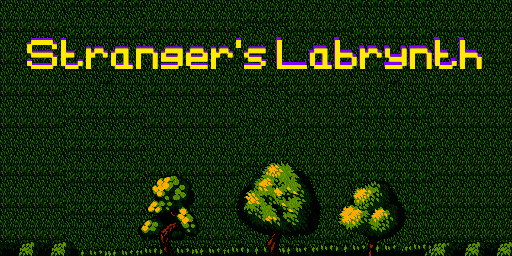
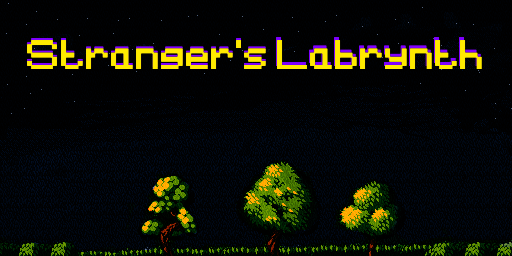
main menu

diff --git a/core/src/com/actionteam/geometryadventures/MainMenuScreen.java b/core/src/com/actionteam/geometryadventures/MainMenuScreen.java
@@ -30,32 +30,24 @@ public class MainMenuScreen implements Screen {
         TextureRegion region = new TextureRegion(background);
         table.setBackground(new TextureRegionDrawable(region));
         table.setFillParent(true);
-        table.setDebug(true);
-        Texture startUp = new Texture(Gdx.files.internal("main-menu/Start_Down.png"));
-        TextureRegion startUpRegion = new TextureRegion(startUp, 0, 0, 512, 512);
-        Texture startDown = new Texture(Gdx.files.internal("main-menu/Start_Up.png"));
-        TextureRegion startDownRegion = new TextureRegion(startDown, 0, 0, 512, 512);
+        table.setDebug(false);
+        Texture startUp = new Texture(Gdx.files.internal("main-menu/Start_Up.png"));
+        TextureRegion startUpRegion = new TextureRegion(startUp);
+        Texture startDown = new Texture(Gdx.files.internal("main-menu/Start_Down.png"));
+        TextureRegion startDownRegion = new TextureRegion(startDown);
         Button startButton = new Button(new TextureRegionDrawable(startUpRegion),
                 new TextureRegionDrawable(startDownRegion));
-        //table.add(startButton).maxSize(512*6/10, 254*6/10).right();
+        table.row();
+        table.add(startButton).center().bottom().expand();
 
-        Texture quitUp = new Texture(Gdx.files.internal("main-menu/Quit_Down.png"));
-        TextureRegion quitUpRegion = new TextureRegion(quitUp, 0, 0, 512, 512);
-        Texture quitDown = new Texture(Gdx.files.internal("main-menu/Quit_Up.png"));
-        TextureRegion quitDownRegion = new TextureRegion(quitDown, 0, 0, 512, 512);
+        Texture quitUp = new Texture(Gdx.files.internal("main-menu/Quit_Up.png"));
+        TextureRegion quitUpRegion = new TextureRegion(quitUp);
+        Texture quitDown = new Texture(Gdx.files.internal("main-menu/Quit_Down.png"));
+        TextureRegion quitDownRegion = new TextureRegion(quitDown);
         Button quitButton = new Button(new TextureRegionDrawable(quitUpRegion),
                 new TextureRegionDrawable(quitDownRegion));
-        //table.add(quitButton).maxSize(512*6/10, 254*6/10).left();
-
-        /*
-        table.row().bottom().expand();
-        Texture trees = new Texture(Gdx.files.internal("main-menu/main_menu_trees.png"));
-        trees.setWrap(Texture.TextureWrap.Repeat, Texture.TextureWrap.Repeat);
-        Image image = new Image(trees);
-        table.add(new Image(trees)).bottom().left().fill().expandX();
-        table.add(new Image(trees)).bottom().right().fill().expandX();
-       // table.add(new Image(trees)).bottom().left();
-        */
+        table.row().pad(20.0f);
+        table.add(quitButton).center().top().expand();
 
         quitButton.addListener(new ChangeListener() {
             @Override
